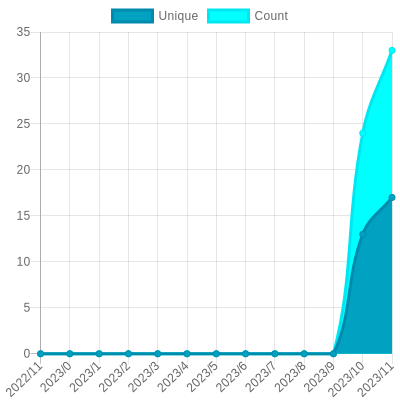
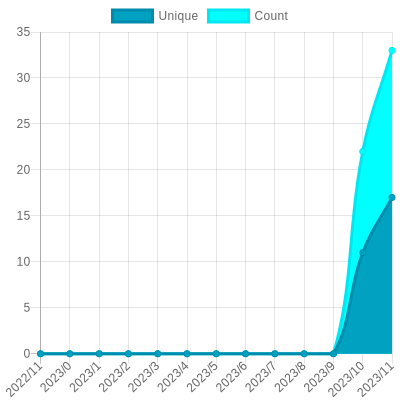
Update views

Changed region(s): [[0.84, 0.18, 0.96, 0.84], [0.96, 0.15, 0.99, 0.18]]

diff --git a/readme/570702362/year.md b/readme/570702362/year.md
@@ -34,10 +34,10 @@
 			<code>2022/11/1</code>
 		</td>
 		<td>
-			<code>13</code>
+			<code>11</code>
 		</td>
 		<td>
-			<code>24</code>
+			<code>22</code>
 		</td>
 	</tr>
 	<tr>
@@ -164,7 +164,7 @@
 </table>
 
 </details>
-<small><i>Last updated on 2022/12/11 6:13 AM UTC</i></small>
+<small><i>Last updated on 2022/12/11 12:18 PM UTC</i></small>
 
 ## ✂Copy and 📋 Paste
 ### SVG Badge

diff --git a/README.md b/README.md
@@ -133,7 +133,7 @@ The project created and maintained by [gayanvoice](https://github.com/gayanvoice
 	</tr>
 </table>
 
-<small><i>Last updated on 2022/12/11 6:13 AM UTC</i></small>
+<small><i>Last updated on 2022/12/11 12:19 PM UTC</i></small>
 
 ## ✂Copy and 📋 Paste
 ### Total Views Badge

diff --git a/readme/344987287/year.md b/readme/344987287/year.md
@@ -164,7 +164,7 @@
 </table>
 
 </details>
-<small><i>Last updated on 2022/12/11 6:12 AM UTC</i></small>
+<small><i>Last updated on 2022/12/11 12:18 PM UTC</i></small>
 
 ## ✂Copy and 📋 Paste
 ### SVG Badge

diff --git a/readme/352523534/year.md b/readme/352523534/year.md
@@ -164,7 +164,7 @@
 </table>
 
 </details>
-<small><i>Last updated on 2022/12/11 6:12 AM UTC</i></small>
+<small><i>Last updated on 2022/12/11 12:18 PM UTC</i></small>
 
 ## ✂Copy and 📋 Paste
 ### SVG Badge

diff --git a/readme/567503456/year.md b/readme/567503456/year.md
@@ -164,7 +164,7 @@
 </table>
 
 </details>
-<small><i>Last updated on 2022/12/11 6:13 AM UTC</i></small>
+<small><i>Last updated on 2022/12/11 12:19 PM UTC</i></small>
 
 ## ✂Copy and 📋 Paste
 ### SVG Badge

diff --git a/readme/570752273/year.md b/readme/570752273/year.md
@@ -164,7 +164,7 @@
 </table>
 
 </details>
-<small><i>Last updated on 2022/12/11 6:13 AM UTC</i></small>
+<small><i>Last updated on 2022/12/11 12:18 PM UTC</i></small>
 
 ## ✂Copy and 📋 Paste
 ### SVG Badge

diff --git a/readme/571067531/year.md b/readme/571067531/year.md
@@ -164,7 +164,7 @@
 </table>
 
 </details>
-<small><i>Last updated on 2022/12/11 6:13 AM UTC</i></small>
+<small><i>Last updated on 2022/12/11 12:19 PM UTC</i></small>
 
 ## ✂Copy and 📋 Paste
 ### SVG Badge

diff --git a/readme/571317072/year.md b/readme/571317072/year.md
@@ -164,7 +164,7 @@
 </table>
 
 </details>
-<small><i>Last updated on 2022/12/11 6:13 AM UTC</i></small>
+<small><i>Last updated on 2022/12/11 12:18 PM UTC</i></small>
 
 ## ✂Copy and 📋 Paste
 ### SVG Badge
